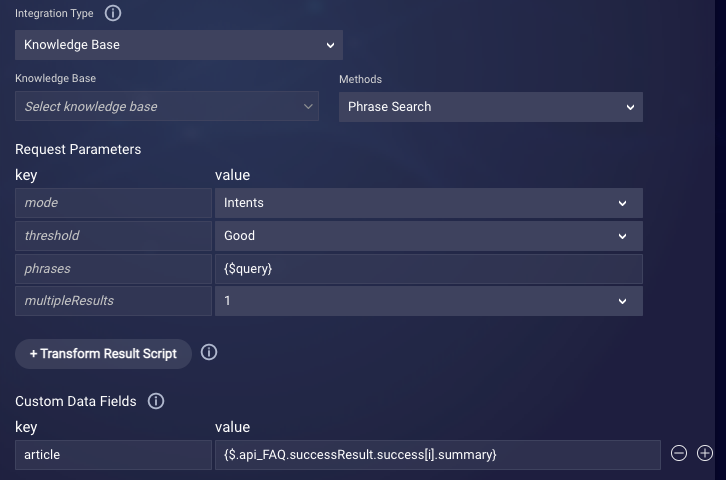
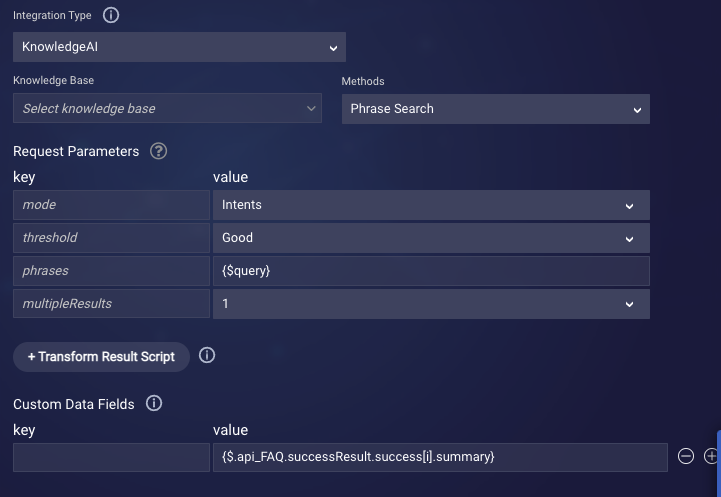
Update KAI integr due to name change

diff --git a/pages/Documents/ConversationalAI/ConversationBuilder/Integrations/knowledgeai-integrations.md b/pages/Documents/ConversationalAI/ConversationBuilder/Integrations/knowledgeai-integrations.md
@@ -1,37 +1,39 @@
 ---
-pagename: Knowledge Base Integrations
+pagename: KnowledgeAI Integrations
+redirect_from:
+    - conversation-builder-integrations-knowledge-base-integrations.html
 Keywords:
 sitesection: Documents
 categoryname: "Conversational AI"
 documentname: Conversation Builder
 subfoldername: Integrations
-permalink: conversation-builder-integrations-knowledge-base-integrations.html
+permalink: conversation-builder-integrations-knowledgeai-integrations.html
 indicator: both
 ---
 
 {: .important}
-Knowledge Base integrations are a legacy feature. For a simpler, more powerful approach, use a [Knowledge AI interaction](conversation-builder-interactions-integrations.html#knowledge-ai-interactions) within the bot; it doesn't require a Knowledge Base integration.
+KnowledgeAI integrations are a legacy feature. For a simpler, more powerful approach, use a [Knowledge AI interaction](conversation-builder-interactions-integrations.html#knowledge-ai-interactions) within the bot; it doesn't require a KnowledgeAI integration.
 
-Use a Knowledge Base integration when you want to search one of your knowledge bases for articles. You’ll need to create the knowledge base first; for help with that, see [here](knowledgeai-overview.html).
+Use a KnowledgeAI integration when you want to search one of your knowledge bases for articles. You’ll need to create the knowledge base first; for help with that, see [here](knowledgeai-overview.html).
 
-One use case for this type of integration is within a fallback dialog to funnel user utterances into a knowledge base search. If an appropriate search result is found, it can be displayed; if no results are found, you might then display a "sorry" message or [escalate the conversation](conversation-builder-integrations-liveperson-agent-escalation-integrations.html) to a human agent.
+One use case for this type of integration is within a fallback dialog, to funnel user utterances into a knowledge base search. If an appropriate search result is found, it can be displayed. If no results are found, you might then display a "sorry" message or [transfer the conversation](conversation-builder-interactions-integrations.html#agent-transfer-interactions) to a human agent.
 
 {: .important}
 The Simple FAQ bot template provides a bot that answers users' questions by connecting to a knowledge base. For details, see [here](conversation-builder-templates-simple-faq.html).
 
-**To add a Knowledge Base integration**
+**To add a KnowledgeAI integration**
 
 1. Open the bot, and click **Integrations** in the upper-left corner.
 2. Configure the integration settings (required fields are marked with asterisks):
     - **Integration Name**: Enter the name of integration. Enter a name that's meaningful (it describes well the integration's purpose), concise, and follows a consistent pattern. This helps with organization, and it makes it easier for bot developers to work with the integration during bot development.
     - **Response Data Variable Name**: Enter the name of the response data variable.
-    - **Integration Type**: Select **Knowledge Base**.
+    - **Integration Type**: Select **KnowledgeAI**.
     
     <img class="fancyimage" style="width:700px" src="img/ConvoBuilder/integrations_kb.png">
     
     - **Knowledge Base**: Select the knowledge base to search. You can select from all public knowledge bases that exist under your organization.
     - **Methods**:
-        - *Phrase Search*: Select this method to use an NLU search or a text-to-text search using the phrase defined in the request parameter. This performs a search against the articles and their associated "standard" tags. You can define "standard" tags via the Knowledge Base UI or an import file.
+        - *Phrase Search*: Select this method to use an NLU search or a text-to-text search using the phrase defined in the request parameter. This performs a search against the articles and their associated "standard" tags. You can define "standard" tags via the KnowledgeAI UI or an import file.
         - *Special Tag Search*: Select this method to search for the special tags defined in the request parameter against the special tags associated with the articles. Special tags are different from standard tags. Special tags have a prescribed format; they don't support NLU searches, and they function more like attributes. Typically, special tags are used for returning products or items. You can define special tags via a CSV file or Google sheet import.
     - **Request Parameters for a Phrase search**:
         - *mode*: Select either Intents, Intents Only, or Text. For a description of each mode, see [here](knowledgeai-using-intents-with-kbs.html#search-modes). This field isn't shown if you've selected an [external knowledge base that doesn't use LivePerson AI](knowledgeai-external-knowledge-bases-external-kbs-without-liveperson-ai.html).

diff --git a/pages/Documents/ConversationalAI/ConversationBuilder/Integrations/integration-basics.md b/pages/Documents/ConversationalAI/ConversationBuilder/Integrations/integration-basics.md
@@ -23,7 +23,7 @@ An integration can be one of the following types:
 
 - **API**: API integrations allow Conversation Builder to perform some action or access the features or data of an external service. For example, you might want to retrieve information on specific items in your product catalog, so you can use that information in interactions in a dialog. See [here](conversation-builder-integrations-api-integrations.html) for more.
 - **Email**: Use an Email integration when you want Conversation Builder to send an email as the result of a bot's dialog flow. For example, if the consumer completes a survey, you might want to send a thank you email to the consumer or send the survey results to a moderator or administrator for collection. See [here](conversation-builder-integrations-email-integrations.html) for more.
-- **Knowledge Base**: Use this type to search a knowledge base for articles. One use case for this type of integration is within a [fallback dialog](conversation-builder-dialogs-fallback-dialogs.html) to funnel user utterances into a knowledge base search. If an appropriate search result is found, it can be displayed; if no results are found, you might then display a "sorry" message or escalate the conversation to a human agent. See [here](conversation-builder-integrations-knowledge-base-integrations.html) for more.
+- **KnowledgeAI**: Use this type to search a knowledge base for articles. One use case for this type of integration is within a [fallback dialog](conversation-builder-dialogs-fallback-dialogs.html), to funnel user utterances into a knowledge base search. If an appropriate search result is found, it can be displayed. If no results are found, you might then display a "sorry" message or transfer the conversation to a human agent. See [here](conversation-builder-integrations-knowledgeai-integrations.html) for more.
 - **LivePerson Agent Escalation**: This type of integration transfers the conversation to a human agent or another bot. See [here](conversation-builder-integrations-liveperson-agent-escalation-integrations.html) for more.
 - **File**: Use a File integration to take a file that was uploaded by the consumer to Conversational Cloud via a [File Upload interaction](conversation-builder-interactions-integrations.html#file-upload-interactions) and upload it to your external file share or system. See [here](conversation-builder-integrations-file-integrations.html) for more.
 - **LivePerson Functions (FaaS)**: Use a LivePerson Functions integration to invoke a function (`lambda`) that is deployed to the [LivePerson Functions](liveperson-functions-overview.html) (Function as a Service or FaaS) platform. There are no constraints here; if there is some custom logic (a function) you want to invoke with a bot, you can do it with this integration. See [here](conversation-builder-integrations-liveperson-functions-integrations.html) for more.

diff --git a/pages/Documents/ConversationalAI/KnowledgeAI/common-settings-tasks.md b/pages/Documents/ConversationalAI/KnowledgeAI/common-settings-tasks.md
@@ -21,7 +21,7 @@ This topic contains information on settings and tasks that are common to both [e
 
 ### Common, configurable settings
 
-* **Knowledge Base Name**: Enter a new display name for the knowledge base if desired. Changing the name of the knowledge base doesn't require a corresponding update to a [knowledge base integration](conversation-builder-integrations-knowledge-base-integrations.html) that uses the knowledge base; the integration is tied to the knowledge base's underlying primary key, not its name. 
+* **Knowledge Base Name**: Enter a new display name for the knowledge base if desired. Changing the name of the knowledge base doesn't require a corresponding update to a [KnowledgeAI integration](conversation-builder-integrations-knowledgeai-integrations.html) that uses the knowledge base; the integration is tied to the knowledge base's underlying primary key, not its name. 
 * **Intent Association**: If you've associated a domain with the knowledge base, this setting is read-only and says, "Domain Intents." However, if the knowledge base is an internal knowledge bases that uses [Knowledge Base intents](knowledgeai-internal-knowledge-bases-introduction.html#domain-intents-versus-knowledge-base-intents), this says, "Knowledge Base Intents," and it gives you the option to [convert](knowledgeai-internal-knowledge-bases-knowledge-bases.html#convert-knowledge-base-intents-to-domain-intents) to Domain intents.
 * **Associated Domain**: If the knowledge base's **Intent Association** is "Domain Intents," this indicates the domain that's associated with the knowledge base.
 * **Language**: The language of the content.
@@ -110,7 +110,7 @@ Note the following:
 Deleting a knowledge base is a non-recoverable action, so be certain about doing so before taking this action.
 
 {: .important}
-Before you delete a knowledge base, ensure it isn't being used in any [Knowledge Base integrations](conversation-builder-integrations-knowledge-base-integrations.html).
+Before you delete a knowledge base, ensure it isn't being used in any KnowledgeAI integrations.
 
 **To delete a knowledge base**
 1. Open the knowledge base.

diff --git a/pages/Documents/ConversationalAI/KnowledgeAI/InternalKnowledgeBases/articles.md b/pages/Documents/ConversationalAI/KnowledgeAI/InternalKnowledgeBases/articles.md
@@ -58,11 +58,11 @@ First, in the **Advanced Settings** of the article, enter the URLs to send **(1)
 <img class="fancyimage" style="width:700px" src="img/ConvoBuilder/kb_advSettings1.png">
 
 {: .important}
-The remainder of this information below is for the benefit of bot developers using a Knowledge Base integration in a bot. However, there's a more powerful and simpler alternative that doesn't require a Knowledge Base integration, namely, use of the Knowledge AI interaction in Conversation Builder. For details on this interaction, see [here](conversation-builder-interactions-integrations.html#knowledge-ai-interactions).
+The remainder of this information below is for the benefit of bot developers using a KnowledgeAI integration in a bot. However, there's a more powerful and simpler alternative that doesn't require a KnowledgeAI integration, namely, use of the Knowledge AI interaction in Conversation Builder. For details on this interaction, see [here](conversation-builder-interactions-integrations.html#knowledge-ai-interactions).
 
-#### Configure the Knowledge Base integration in the bot
+#### Configure the KnowledgeAI integration in the bot
 
-Next, open Conversation Builder and navigate to the [Knowledge Base integration](conversation-builder-integrations-knowledge-base-integrations.html) inside the bot that uses the knowledge base.
+Next, open Conversation Builder and navigate to the [KnowledgeAI integration](conversation-builder-integrations-knowledgeai-integrations.html) inside the bot that uses the knowledge base.
 
 Verify that the appropriate knowledge base is selected **(2)**, and then add custom data fields for the content links that you're using **(3)**.
 

diff --git a/pages/Documents/ConversationalAI/ConversationBuilder/Interactions/integrations.md b/pages/Documents/ConversationalAI/ConversationBuilder/Interactions/integrations.md
@@ -135,7 +135,7 @@ With this layout:
 8. Configure rules that direct the conversation flow based on the search results; this is described below. If you’ve selected "No auto rendering" for the **Answer layout** setting, you’ll also need to add the interactions that display the answers.
 
 {: .important}
-You might be familiar with implementing a knowledge base search using an Integration interaction that itself uses a specified [Knowledge Base integration](conversation-builder-integrations-knowledge-base-integrations.html) to perform the search. That approach is still supported, but it is considered a legacy approach. The Knowledge AI interaction is a simpler alternative because it doesn’t need an associated Knowledge Base integration.
+You might be familiar with implementing a knowledge base search using an Integration interaction that itself uses a specified [KnowledgeAI integration](conversation-builder-integrations-knowledgeai-integrations.html) to perform the search. That approach is still supported, but it is considered a legacy approach. The Knowledge AI interaction is a simpler alternative because it doesn’t need an associated KnowledgeAI integration.
 
 #### No auto rendering: Using a custom answer layout
 

diff --git a/pages/Documents/ConversationalAI/KnowledgeAI/ExternalKnowledgeBases/external-kbs-with-liveperson-ai.md b/pages/Documents/ConversationalAI/KnowledgeAI/ExternalKnowledgeBases/external-kbs-with-liveperson-ai.md
@@ -28,8 +28,8 @@ When adding an external knowledge base with LivePerson AI, follow this high-leve
     2. In the external knowledge base that you added, associate each article with an intent in the domain. 
     3. [Train](knowledgeai-using-intents-with-kbs.html) the articles to match consumer utterances.
 3. Expose the articles to consumers by:
-    * (Conversation Builder) [Adding a Knowledge Base integration](conversation-builder-integrations-knowledge-base-integrations.html) in a bot
-    * (Conversation Orchestrator) Adding a Knowledge Base integration as a part of an [Agent Assist](conversation-orchestrator-agent-assist-overview.html) component
+    * (Conversation Builder) [Adding a KnowledgeAI interaction](conversation-builder-interactions-integrations.html#knowledge-ai-interactions) in a bot
+    * (Conversation Orchestrator) Adding a KnowledgeAI integration as a part of an [Agent Assist](conversation-orchestrator-agent-assist-overview.html) component
 
 {: .important}
 After making any changes to the content in the CMS, sync with the CMS (described below). This updates the knowledge base accordingly.

diff --git a/pages/Documents/ConversationalAI/KnowledgeAI/InternalKnowledgeBases/introduction.md b/pages/Documents/ConversationalAI/KnowledgeAI/InternalKnowledgeBases/introduction.md
@@ -30,8 +30,8 @@ When adding an internal knowledge base, follow this workflow:
     2. [Add the articles](knowledgeai-internal-knowledge-bases-articles.html) if necessary.
     3. [Train](knowledgeai-using-intents-with-kbs.html) the articles to match consumer utterances.
 2. Expose the articles to consumers by:
-    * (Conversation Builder) [Adding a Knowledge Base integration](conversation-builder-integrations-knowledge-base-integrations.html) in a bot
-    * (Conversation Orchestrator) Adding a Knowledge Base integration as a part of an [Agent Assist](conversation-orchestrator-agent-assist-overview.html) component
+    * (Conversation Builder) [Adding a KnowledgeAI interaction](conversation-builder-interactions-integrations.html#knowledge-ai-interactions) in a bot
+    * (Conversation Orchestrator) Adding a KnowledgeAI integration as a part of an [Agent Assist](conversation-orchestrator-agent-assist-overview.html) component
 
 ### Domain intents versus Knowledge Base intents
 

diff --git a/pages/Documents/ConversationalAI/KnowledgeAI/ExternalKnowledgeBases/external-kbs-without-liveperson-ai.md b/pages/Documents/ConversationalAI/KnowledgeAI/ExternalKnowledgeBases/external-kbs-without-liveperson-ai.md
@@ -26,8 +26,8 @@ When adding an external knowledge base without LivePerson AI, follow this high-l
     1. Add the external knowledge base.
     2. Use the Search tool to test the integration.
 2. Expose the articles to consumers by:
-    * (Conversation Builder) [Adding a Knowledge Base integration](conversation-builder-integrations-knowledge-base-integrations.html) in a bot
-    * (Conversation Orchestrator) Adding a Knowledge Base integration as a part of an [Agent Assist](conversation-orchestrator-agent-assist-overview.html) component
+    * (Conversation Builder) [Adding a KnowledgeAI interaction](conversation-builder-interactions-integrations.html#knowledge-ai-interactions) in a bot
+    * (Conversation Orchestrator) Adding a KnowledgeAI integration as a part of an [Agent Assist](conversation-orchestrator-agent-assist-overview.html) component
 
 ### Add an external KB without LivePerson AI
 

diff --git a/pages/Documents/ConversationalAI/ConversationBuilder/BotTemplates/simple-faq.md b/pages/Documents/ConversationalAI/ConversationBuilder/BotTemplates/simple-faq.md
@@ -61,7 +61,7 @@ All of the additional parameters are configured for you.
 <img class="fancyimage" style="width:900px" src="img/ConvoBuilder/template_faq_simple_image_3.png">
 
 {: .important}
-For detailed information on adding a Knowledge Base integration, see [here](conversation-builder-integrations-knowledge-base-integrations.html).
+For detailed information on adding a KnowledgeAI integration, see [here](conversation-builder-integrations-knowledgeai-integrations.html).
 
 #### Test your bot
 
